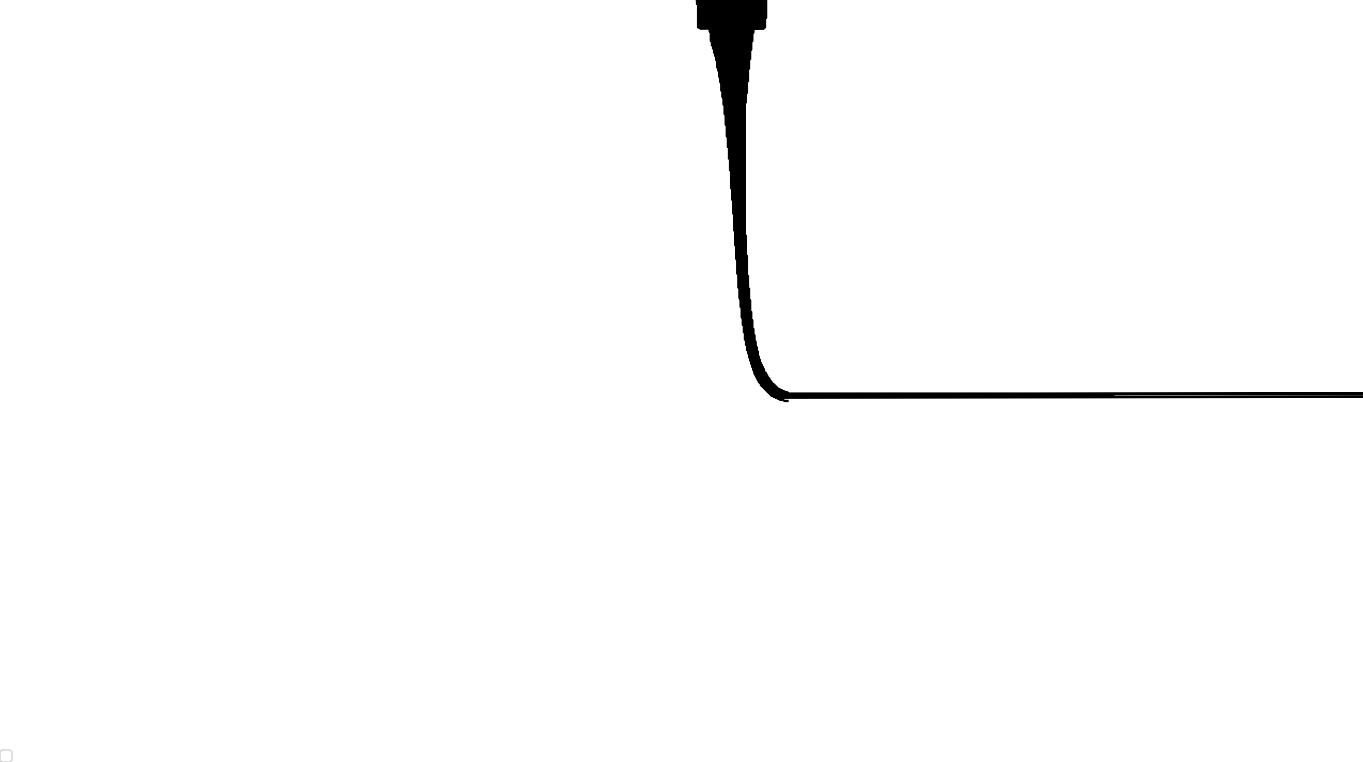
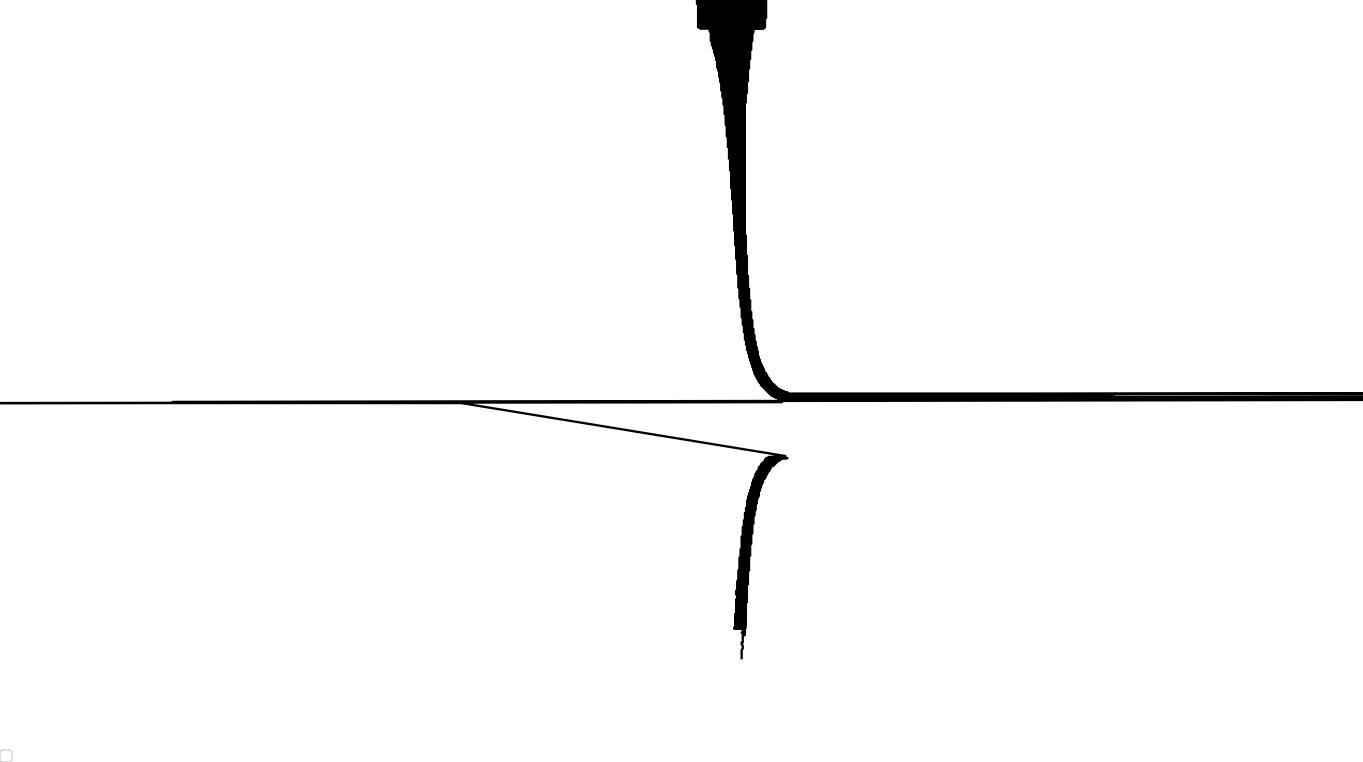
阈值测试

Changed region(s): [[0.0, 0.5131, 1.0, 0.5735], [0.5238, 0.6339, 0.5547, 0.8451], [0.493, 0.5735, 0.5855, 0.6339]]

diff --git a/Edge.py b/Edge.py
@@ -13,10 +13,12 @@ imageSavePath = "./upload/images/"
 
 def CannyThreshold(imageName):
     # global new_gary_image
-    # lowThreshold = cv2.getTrackbarPos('Min threshold', 'canny demmo')
-    # heightThreshold = cv2.getTrackbarPos('Max threshold', 'canny demmo')
-    lowThreshold = 50
-    heightThreshold = 500
+
+    # lowThreshold = 50
+    # heightThreshold = 500
+    lowThreshold = cv2.getTrackbarPos('Min threshold', 'canny demmo')
+    heightThreshold = cv2.getTrackbarPos('Max threshold', 'canny demmo')
+
     detected_edges = cv2.GaussianBlur(new_grayImage, (3, 3), 0)
     # detected_edges=cv2.medianBlur(new_grayImage,3)
     detected_edges = cv2.Canny(detected_edges,
@@ -38,10 +40,10 @@ def CannyThreshold(imageName):
     cv2.drawContours(imageCountour, contours, -1, (1, 0, 0), cv2.FILLED)
 
     # drawContour(contours)
-    drawContourImage(imageCountour)
+    # drawContourImage(imageCountour)
     cv2.imshow('canny demmo', imageCountour)
 
-    cv2.imwrite(imageSavePath+str(imageName)+".bmp", imageCountour)
+    # cv2.imwrite(imageSavePath+str(imageName)+".bmp", imageCountour)
 
 
 def drawContour(contours):
@@ -215,20 +217,20 @@ kernel_size = 3
 max_kernel_size = 9
 gary_mode = 0
 gary_mode_Max = 5
-# img = cv2.imread('./jpg/3.jpg')
-# gray_img = cv2.cvtColor(img, cv2.COLOR_BGR2GRAY)
-# new_grayImage = gray_img
-# cv2.namedWindow('canny demmo')
+img = cv2.imread('./upload/images/1.jpg')
+gray_img = cv2.cvtColor(img, cv2.COLOR_BGR2GRAY)
+new_grayImage = gray_img
+cv2.namedWindow('canny demmo')
 
-# cv2.createTrackbar('Min threshold', 'canny demmo',
-#                    lowThreshold, max_lowThreshold, CannyThreshold)
-# cv2.createTrackbar('Max threshold', 'canny demmo',
-#                    heightThreshold, max_heightThreshold, CannyThreshold)
-# cv2.createTrackbar('contour_Mode', 'canny demmo',
-#                    mode, mode_n, CannyThreshold)
+cv2.createTrackbar('Min threshold', 'canny demmo',
+                   lowThreshold, max_lowThreshold, CannyThreshold)
+cv2.createTrackbar('Max threshold', 'canny demmo',
+                   heightThreshold, max_heightThreshold, CannyThreshold)
+cv2.createTrackbar('contour_Mode', 'canny demmo',
+                   mode, mode_n, CannyThreshold)
 
-# CannyThreshold("0")  # initialization
-img = np.array(Image.open("./upload/images/1.bmp"))
-drawContourImage(img)
+CannyThreshold("0")  # initialization
+# img = np.array(Image.open("./upload/images/1.bmp"))
+# drawContourImage(img)
 if cv2.waitKey(0) == 27:
     cv2.destroyAllWindows()

diff --git a/edgeGetServer.py b/edgeGetServer.py
@@ -55,6 +55,7 @@ def getFinalContour(filePath, fileName, leftTopP, leftBottomP, rightBottomP):
     midLine = [[], []]
     leftContour = [[], []]
     rightContour = [[], []]
+    # 内轮廓为白色，其中中心线为黑色
     img_array = np.array(img_bin-img_thinning)
     bottom = min(rightBottomP[1], leftBottomP[1])
     for i in range(img_array.shape[0]):
@@ -67,26 +68,30 @@ def getFinalContour(filePath, fileName, leftTopP, leftBottomP, rightBottomP):
         leftCJ = 1
         rightCJ = 1
         for x in range(img_array.shape[1]):
+            # 转换为图像高度
             y = img_array.shape[0]-i
             if(img_array[i][x] == 255):
                 image[0].append(x)
                 image[1].append(y)
+            # 左轮廓录入
             if(img_array[i][x] == 255 and leftCJ == 1 and y < leftTopP[1] and y > leftBottomP[1] and x > leftTopP[0]):
                 leftContour[0].append(x)
                 leftContour[1].append(y)
                 leftCJ = 0
+                # 右轮廓录入
             if(img_array[i][img_array.shape[1] - x-1] == 255 and rightCJ == 1 and y > rightBottomP[1] and y < leftTopP[1]):
                 rightContour[0].append(img_array.shape[1] - x-1)
                 rightContour[1].append(y)
                 rightCJ = 0
+                # 中心线左值
             if(img_array[i][x] == 255 and leftJ == 1 and leftCJ == 0):
                 leftP = [x, y]
                 leftJ = 0
+                # 中心线右值
             if(img_array[i][img_array.shape[1]-x-1] == 255 and rightJ == 1 and img_array.shape[1]-x-1 < rightBottomP[0] and rightCJ == 0):
                 rightP = [img_array.shape[1]-x-1, y]
                 rightJ = 0
-            # if(leftJ == 0 and rightJ == 0):
-            #     break
+  
         if(leftP == [] or rightP == []):
             continue
         midLine[0].append((leftP[0]+rightP[0])/2)
@@ -123,7 +128,7 @@ def getSilhouette(fileName, fileExtension, imageSavePath):
     输出：保存处理后的轮廓图片
     '''
     lowThreshold = 50
-    heightThreshold = 500
+    heightThreshold = 150
     kernel_size = 3
     imageFilePath = ""
     imageFilePath = imageSavePath + fileName + "." + fileExtension
